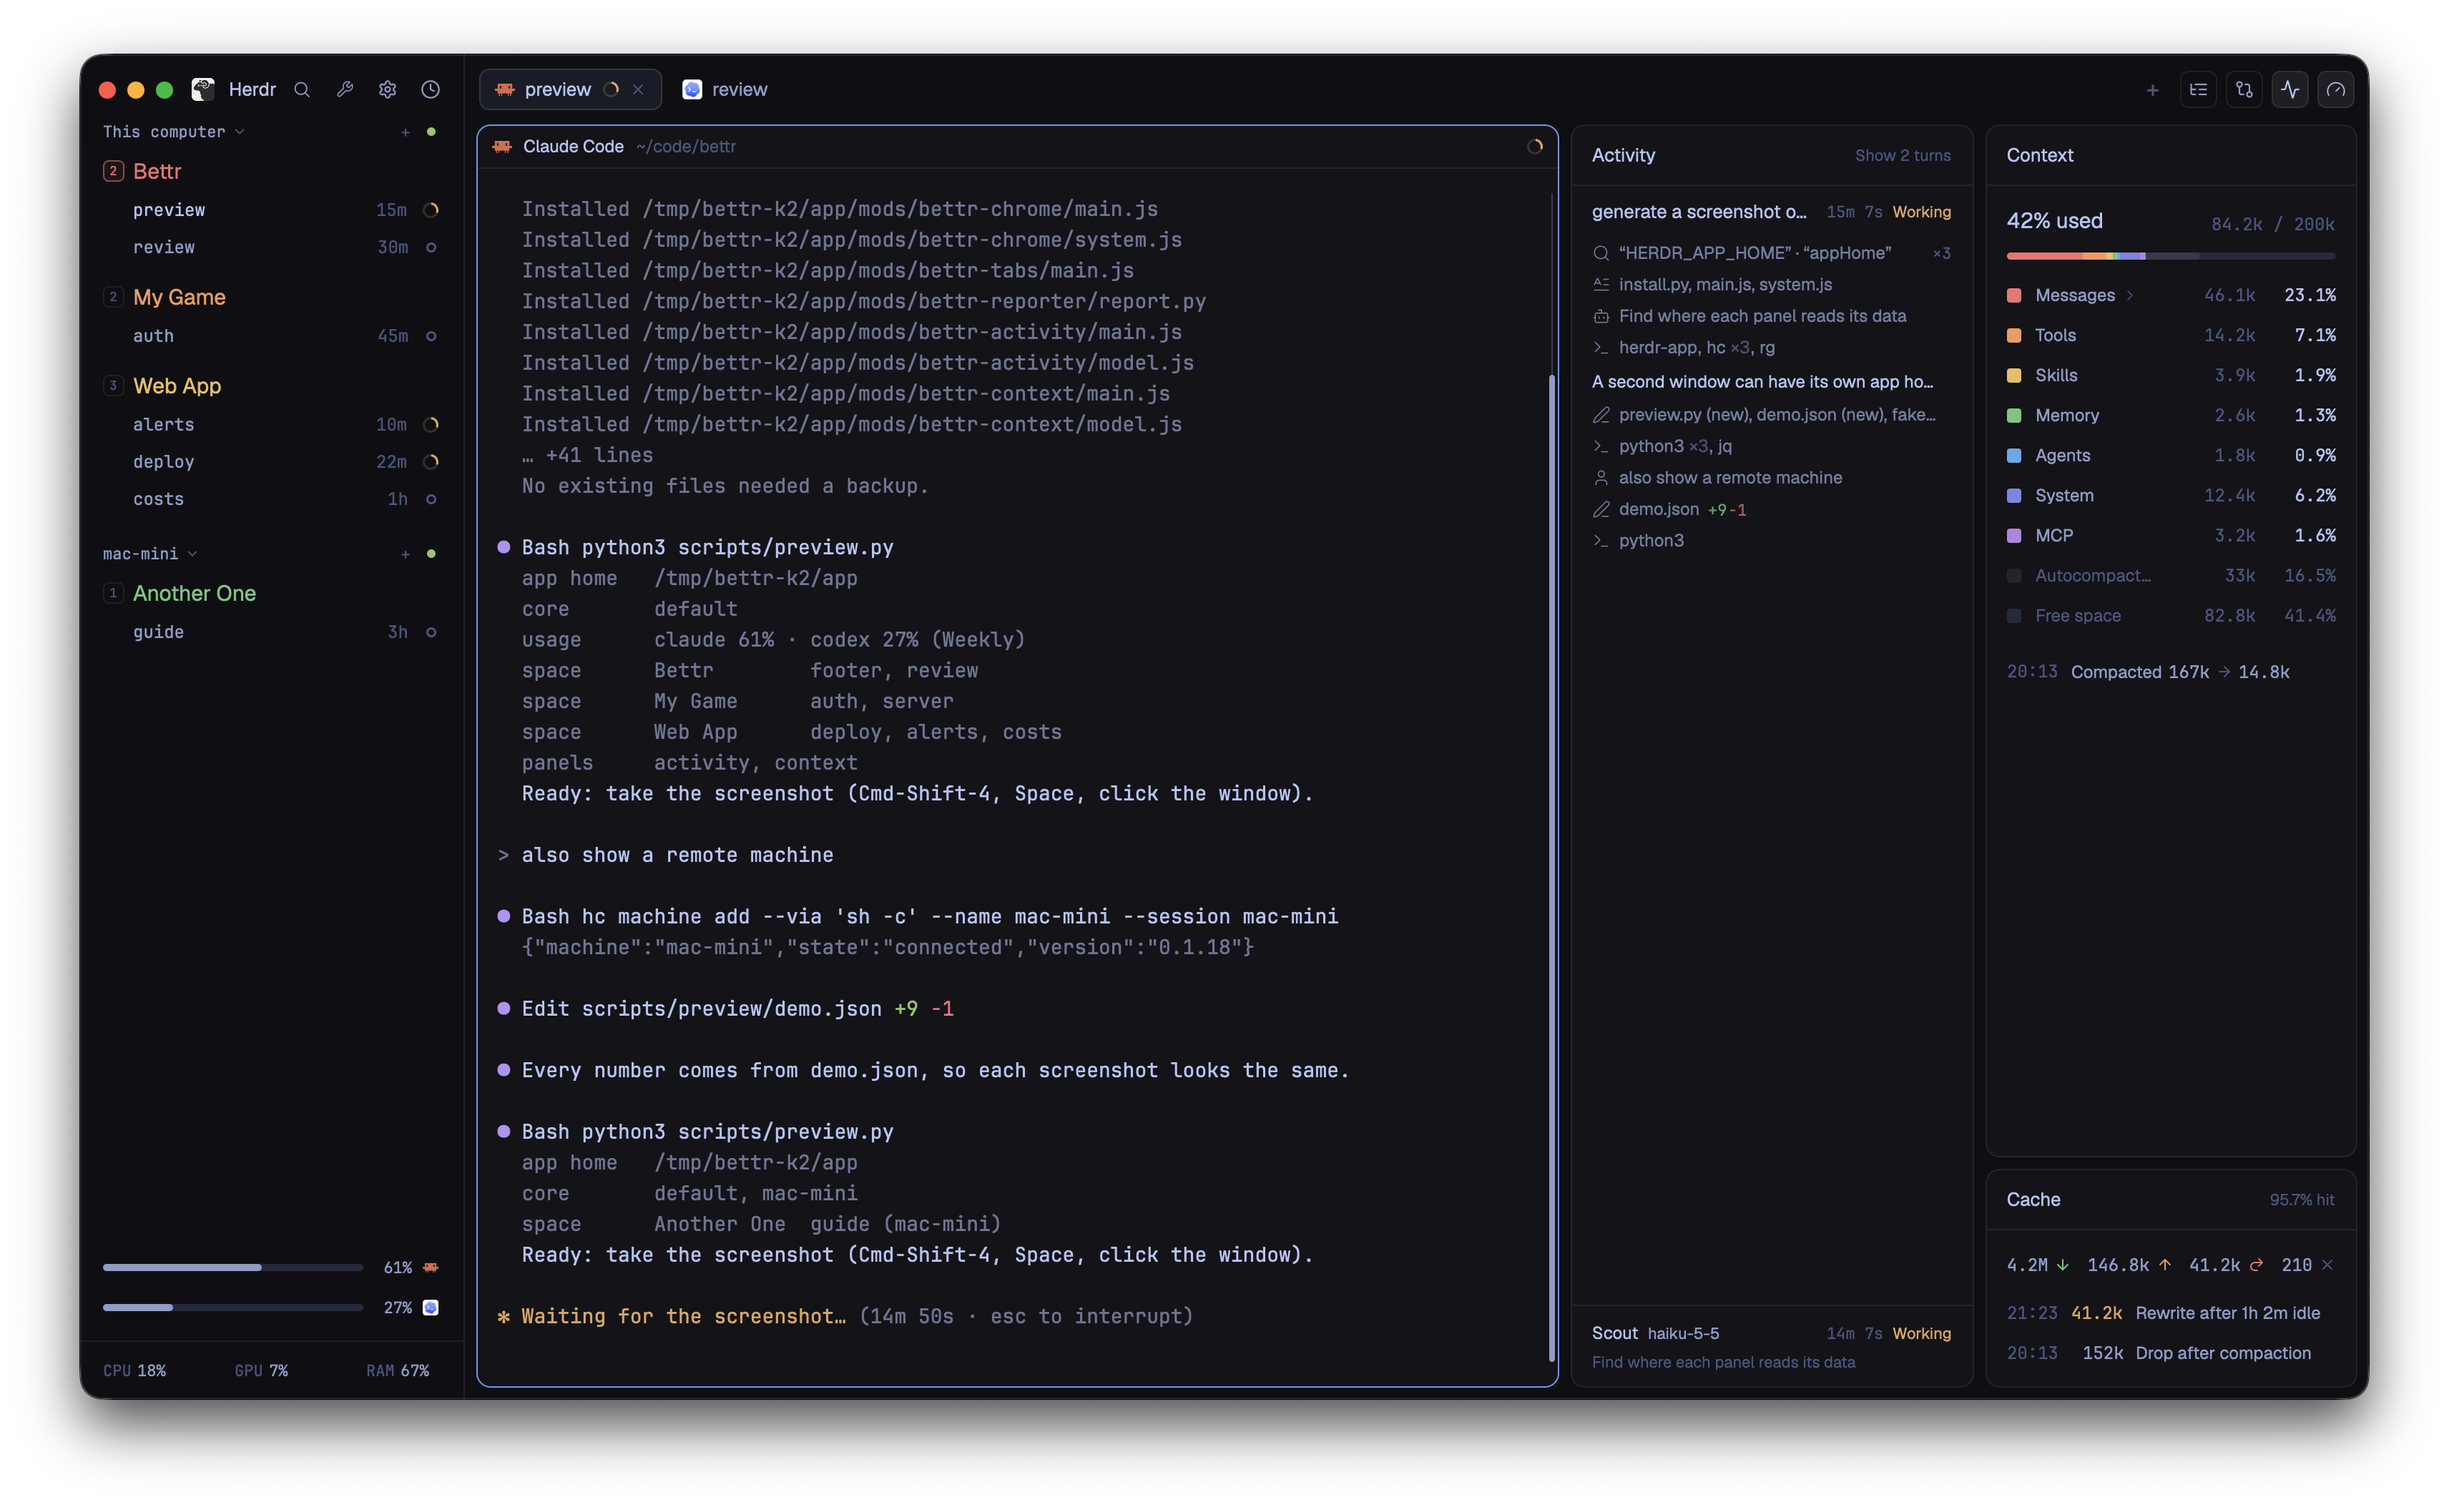
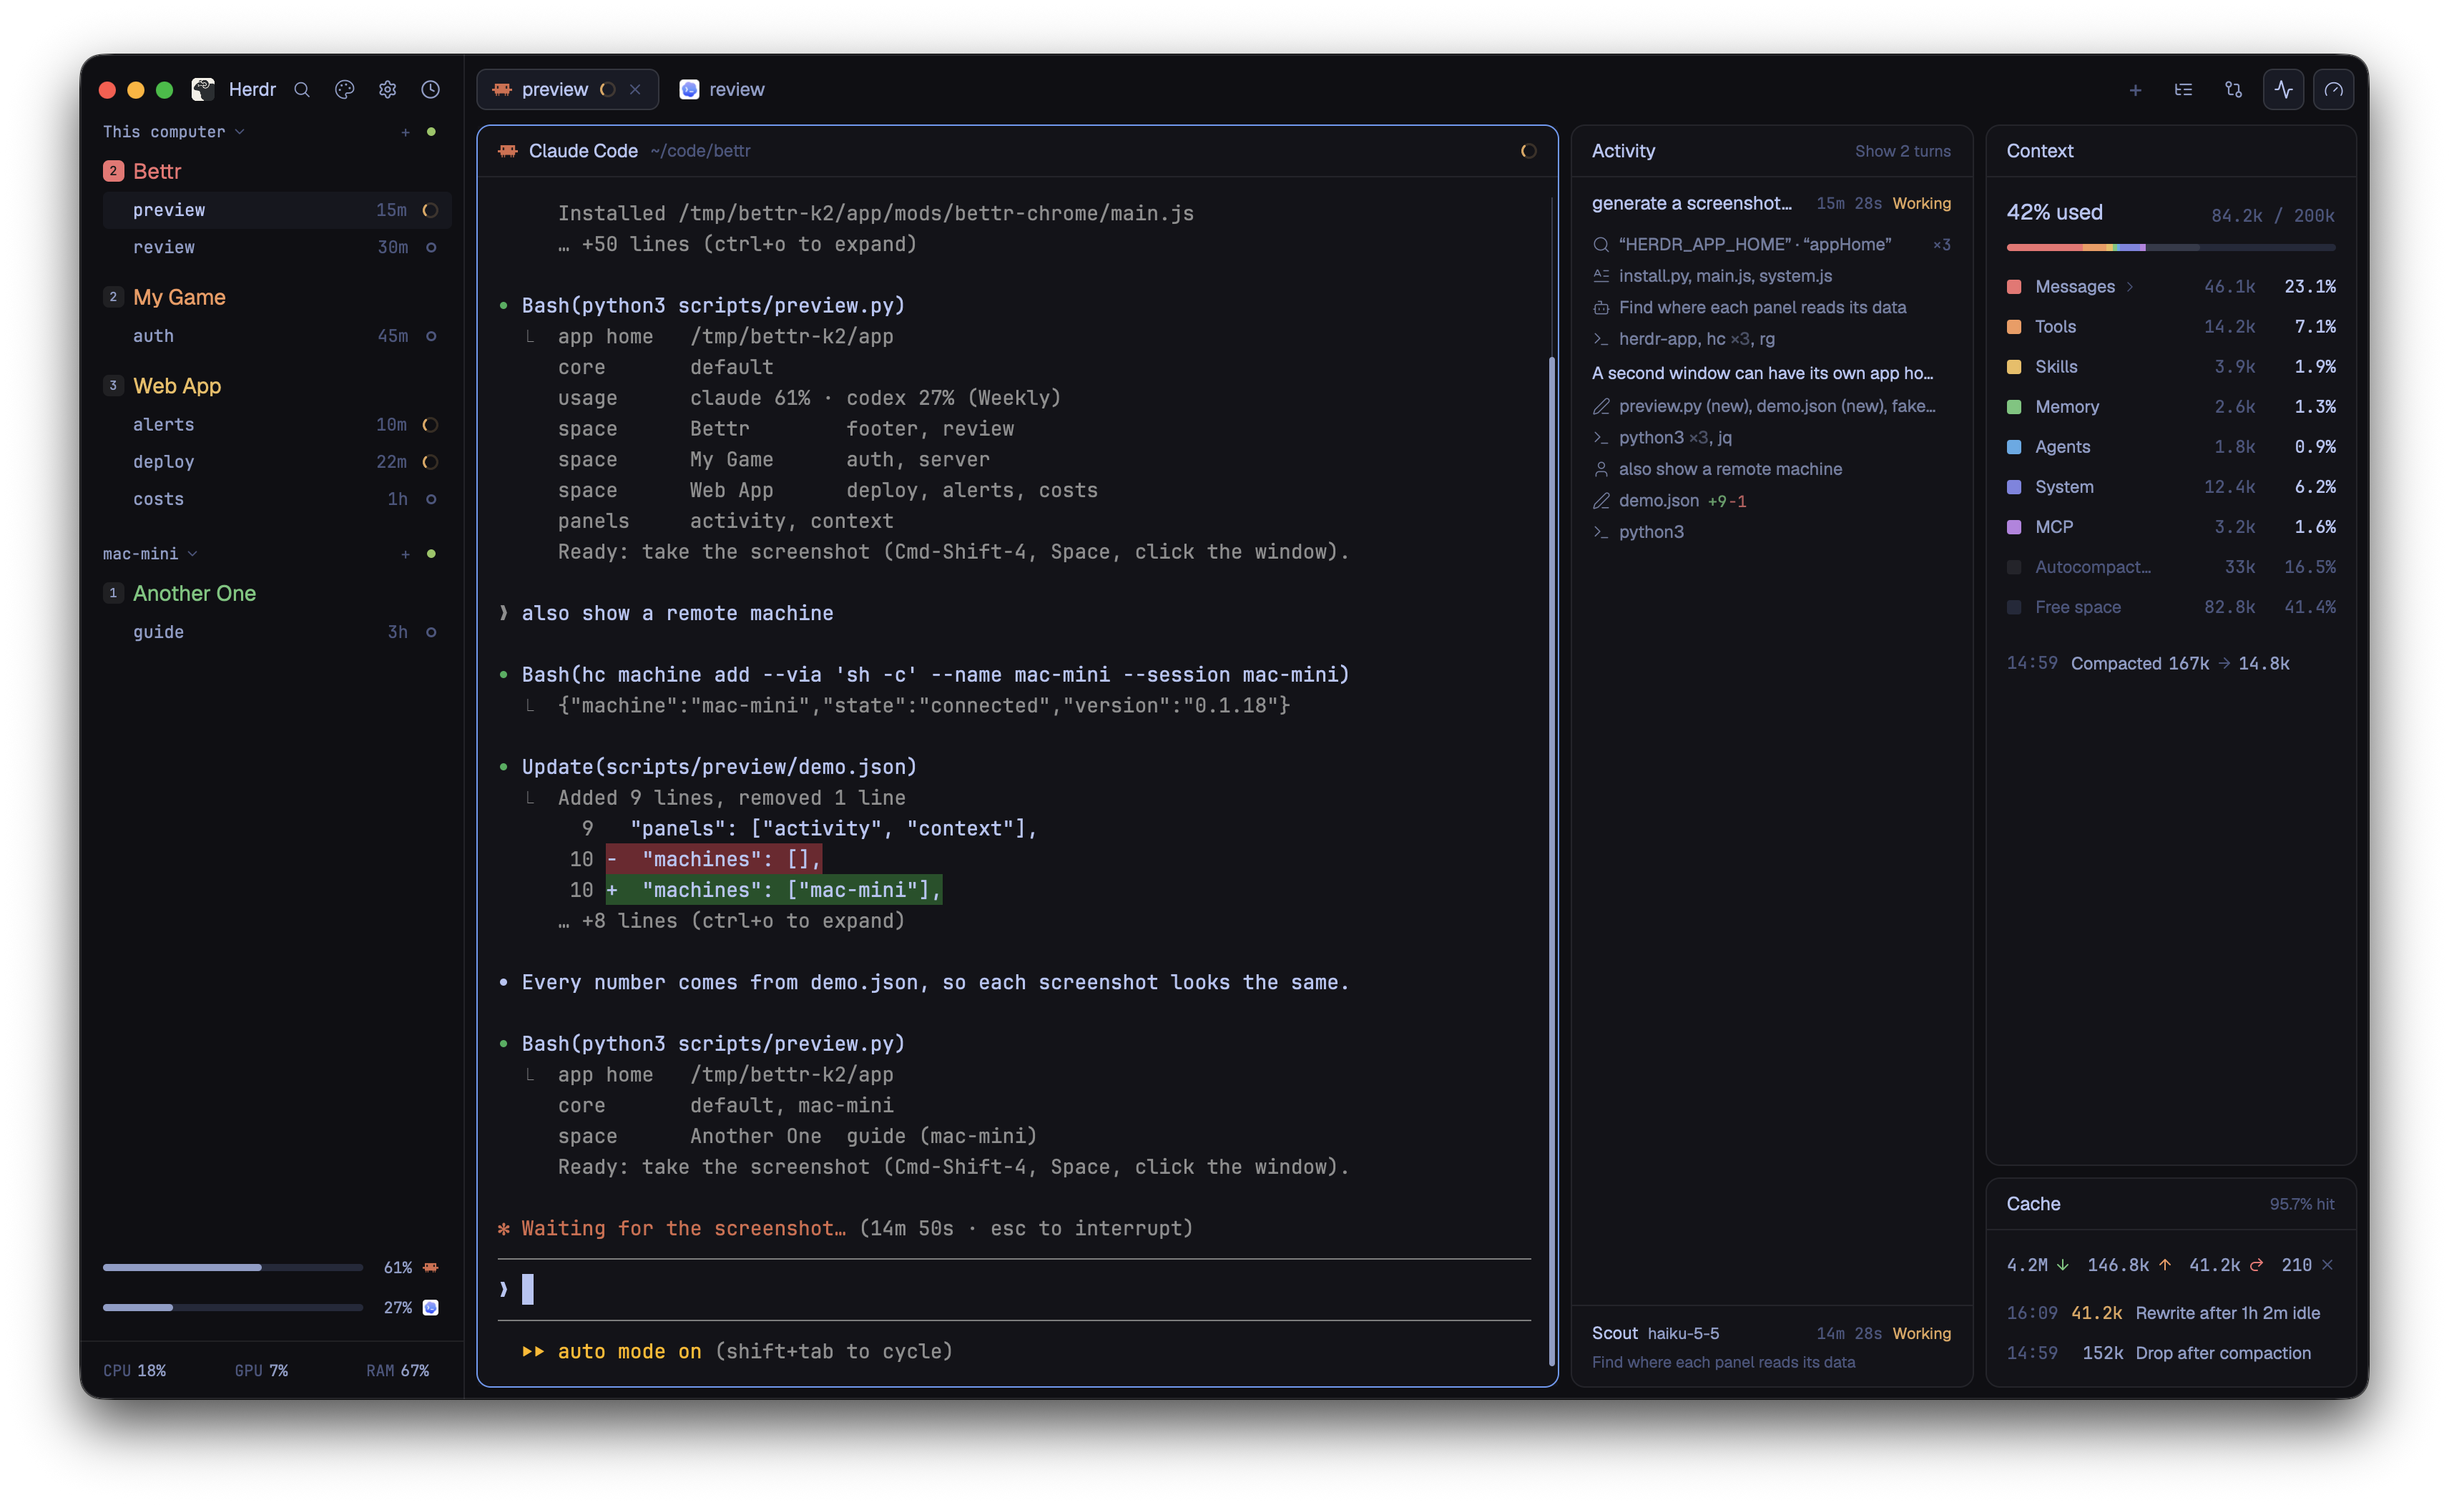
Make preview agent redraw on pane resize
Redraw the fake agent screen to fit the pane and support full-width rules. Refresh the Claude screen styling and preview screenshot.

diff --git a/scripts/preview/fake_agent.py b/scripts/preview/fake_agent.py
@@ -1,12 +1,22 @@
 #!/usr/bin/env python3
-"""A stand-in agent for scripts/preview.py: report a status, print a fixed screen, wait.
+"""A stand-in agent for scripts/preview.py: report a status, draw a fixed screen, wait.
 
 Usage: fake_agent.py <screen file or -> <app or -> <status>
-The screen file is plain text; `\\e` in it becomes ESC, for colours (`\\e[2m` dim).
+The screen file is plain text; `\\e` in it becomes ESC, for colours (`\\e[2m` dim), and
+`{rule}` a line across the pane. As in a real TUI, the screen is drawn again when the pane
+resizes, a screen taller than the pane loses its top lines, and long lines are cut.
 """
+import os
+import signal
 import sys
-import time
 from pathlib import Path
+
+
+def draw(text):
+    size = os.get_terminal_size(sys.stdout.fileno())
+    lines = text.replace("{rule}", "─" * size.columns).rstrip("\n").split("\n")
+    sys.stdout.write("\033[?7l\033[H\033[2J" + "\r\n".join(lines[-size.lines:]))
+    sys.stdout.flush()
 
 
 def main():
@@ -14,11 +24,13 @@ def main():
     if app != "-":
         # OSC 7501: Herdr shows the terminal as this agent, with this status.
         sys.stdout.write(f"\033]7501;state={status}:app={app}\007\033[?25l")
+        sys.stdout.flush()
     if screen != "-":
-        sys.stdout.write(Path(screen).read_text().replace("\\e", "\033"))
-    sys.stdout.flush()
+        text = Path(screen).read_text().replace("\\e", "\033")
+        signal.signal(signal.SIGWINCH, lambda *_: draw(text))
+        draw(text)
     while True:
-        time.sleep(3600)
+        signal.pause()
 
 
 if __name__ == "__main__":
